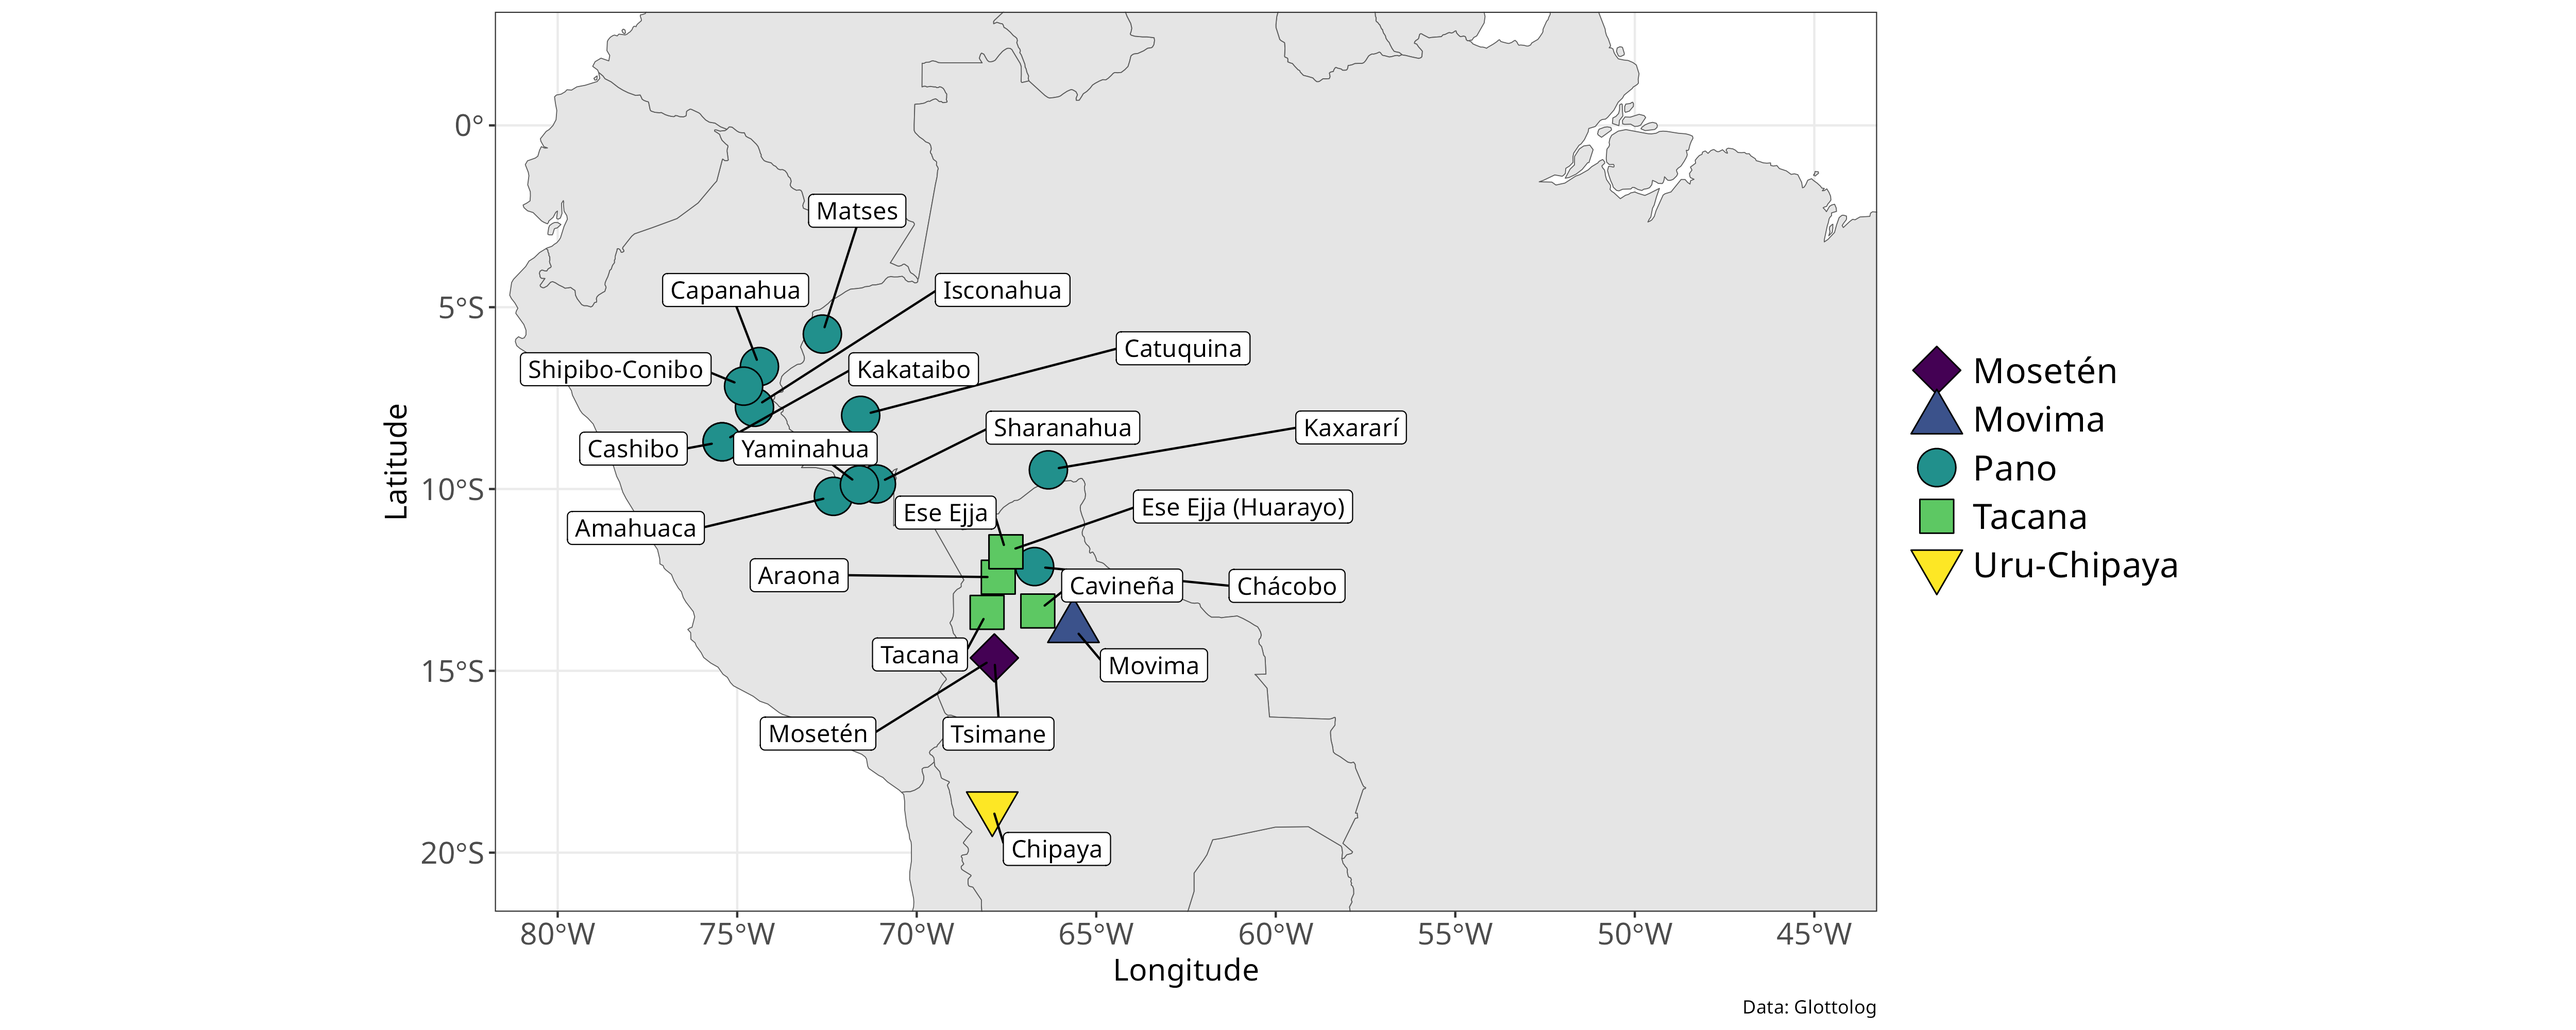
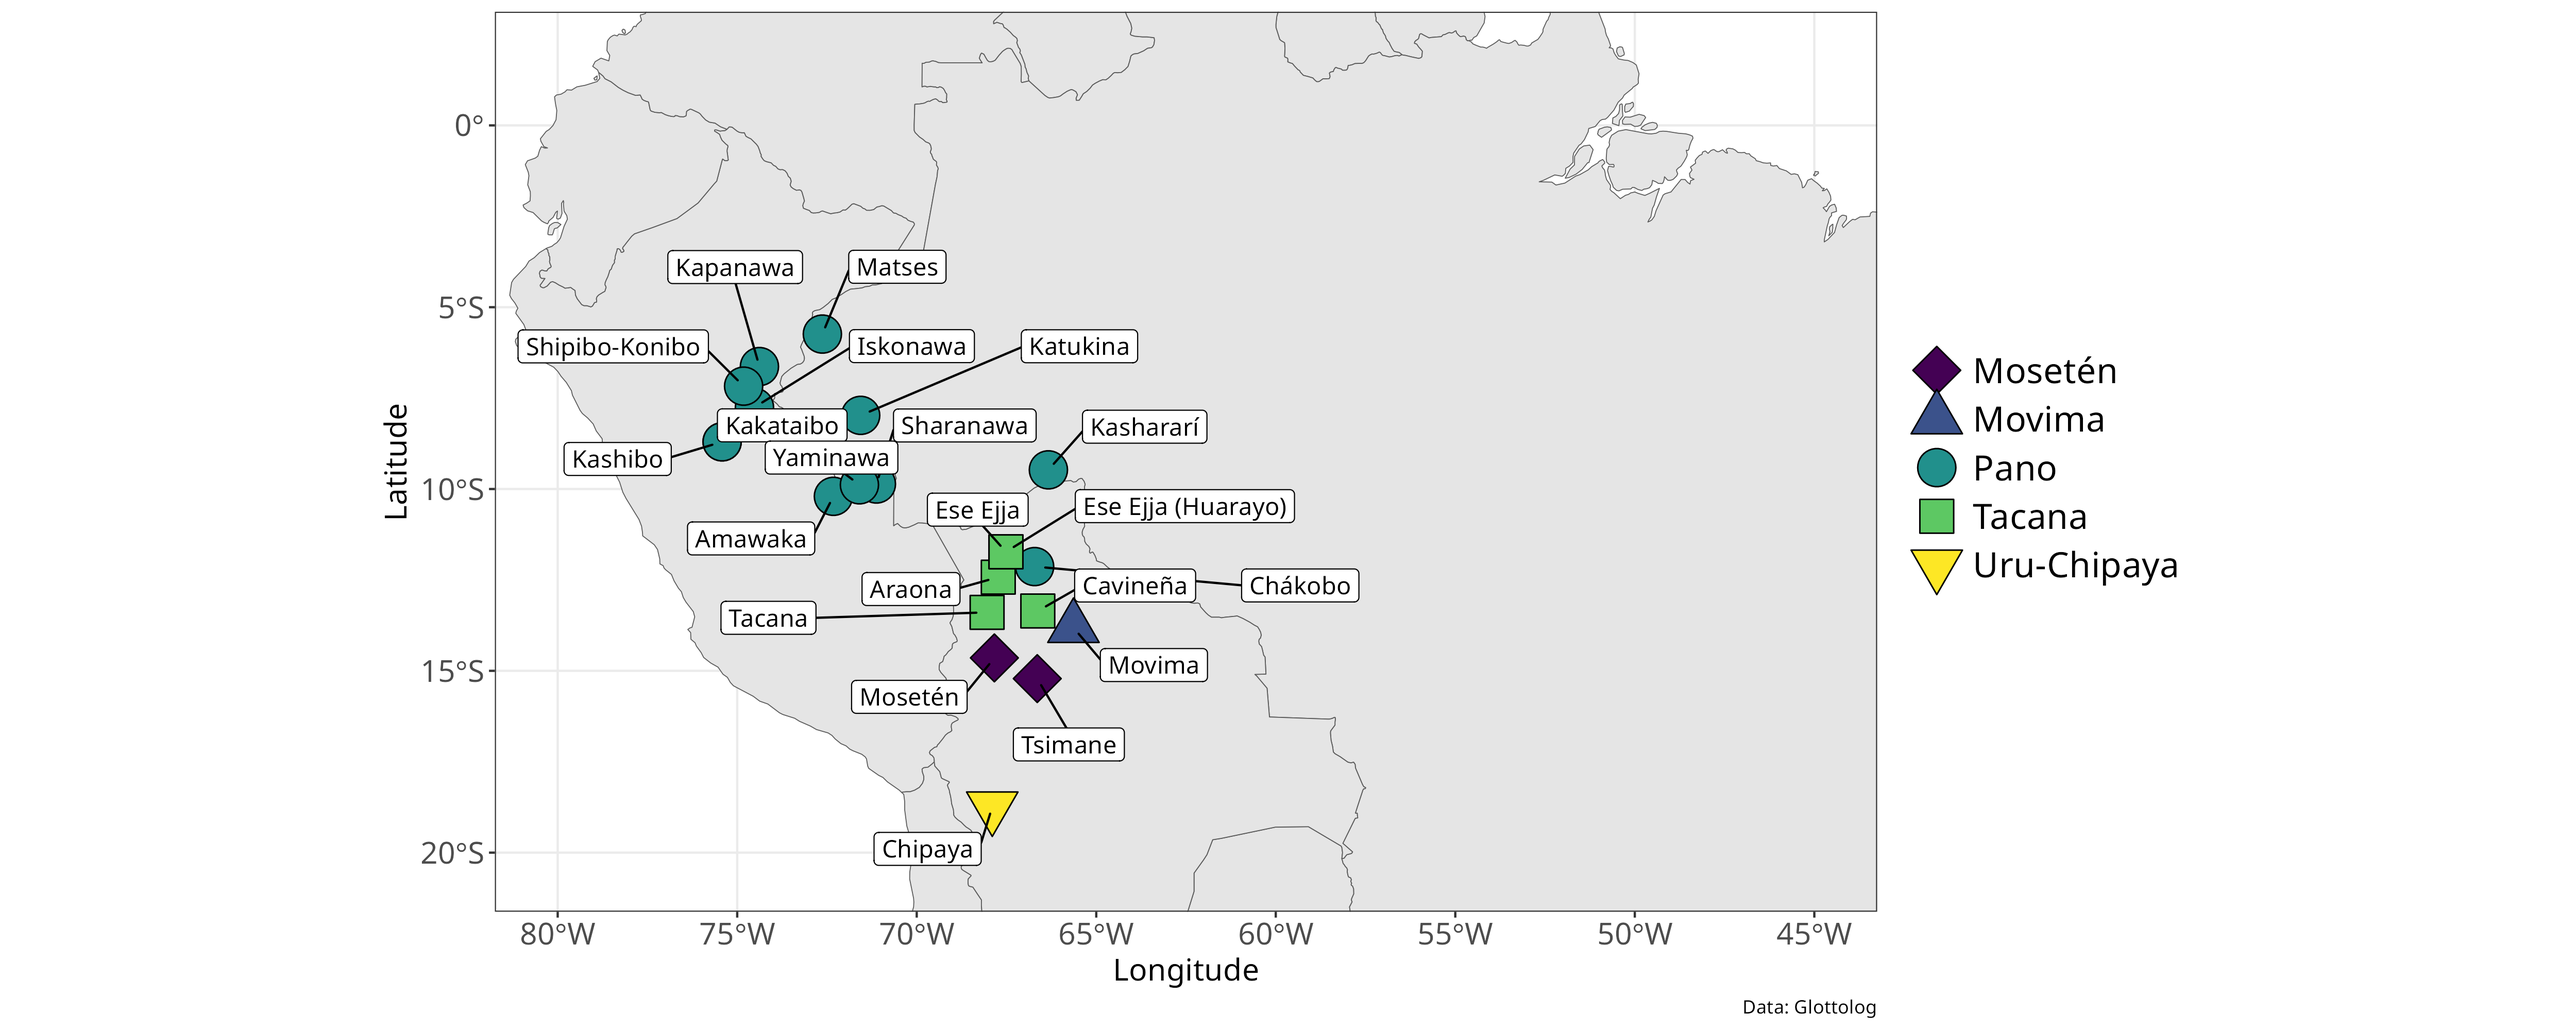
update language names

Changed region(s): [[0.1872, 0.186, 0.5616, 0.744], [0.3432, 0.806, 0.4368, 0.868], [0.4056, 0.558, 0.5304, 0.589]]

diff --git a/cldf/README.md b/cldf/README.md
@@ -15,7 +15,7 @@ property | value
 [dc:format](http://purl.org/dc/terms/format) | <ol><li>http://concepticon.clld.org/contributions/Blum-2024-501</li></ol>
 [dc:license](http://purl.org/dc/terms/license) | https://creativecommons.org/licenses/by/4.0/
 [dcat:accessURL](http://www.w3.org/ns/dcat#accessURL) | https://github.com/pano-tacanan-history/blumpanotacana
-[prov:wasDerivedFrom](http://www.w3.org/ns/prov#wasDerivedFrom) | <ol><li><a href="https://github.com/pano-tacanan-history/blumpanotacana/tree/5b75dae">pano-tacanan-history/blumpanotacana v0.2-4-g5b75dae</a></li><li><a href="https://github.com/glottolog/glottolog/tree/v5.0">Glottolog v5.0</a></li><li><a href="https://github.com/concepticon/concepticon-data/tree/v3.2.0">Concepticon v3.2.0</a></li><li><a href="https://github.com/cldf-clts/clts/tree/v2.2.0">CLTS v2.2.0</a></li></ol>
+[prov:wasDerivedFrom](http://www.w3.org/ns/prov#wasDerivedFrom) | <ol><li><a href="https://github.com/pano-tacanan-history/blumpanotacana/tree/4ad224f">pano-tacanan-history/blumpanotacana v0.2-5-g4ad224f</a></li><li><a href="https://github.com/glottolog/glottolog/tree/v5.0">Glottolog v5.0</a></li><li><a href="https://github.com/concepticon/concepticon-data/tree/v3.2.0">Concepticon v3.2.0</a></li><li><a href="https://github.com/cldf-clts/clts/tree/v2.2.0">CLTS v2.2.0</a></li></ol>
 [prov:wasGeneratedBy](http://www.w3.org/ns/prov#wasGeneratedBy) | <ol><li><strong>lingpy-rcParams</strong>: <a href="./lingpy-rcParams.json">lingpy-rcParams.json</a></li><li><strong>python</strong>: 3.12.2</li><li><strong>python-packages</strong>: <a href="./requirements.txt">requirements.txt</a></li></ol>
 [rdf:ID](http://www.w3.org/1999/02/22-rdf-syntax-ns#ID) | blumpanotacana
 [rdf:type](http://www.w3.org/1999/02/22-rdf-syntax-ns#type) | http://www.w3.org/ns/dcat#Distribution

diff --git a/README.md b/README.md
@@ -39,13 +39,13 @@ This command uses the most up-to-date version of the reference catalogues (Conce
 
 To ease the integration with other datasets, we recommend to convert the dataset to SQL. This is easily done by running the following command from pycldf:
 
-`cldf createdb cldf/cldf-metadata.json blumpanotacana.sqlite3`
+`cldf createdb cldf/cldf-metadata.json analysis/blumpanotacana.sqlite3`
 
 As an example, you can easily integrate the data from Grambank. As a pre-requisite, please clone Grambank (<https://github.com/grambank/grambank/tree/v1.0.3>) and create the sqlite-database in the same way as presented above. In order to now retrieve the data of the languages that are both in this dataset and in Grambank, you can use the following code in `sqlite3`:
 
 ```SQL
 attach 'blumpanotacana.sqlite3' as db1;
-attach '../grambank/grambank.sqlite' as db2;
+attach 'grambank/grambank.sqlite3' as db2;
 
 SELECT count(a.cldf_glottocode) FROM
   db1.LanguageTable a
